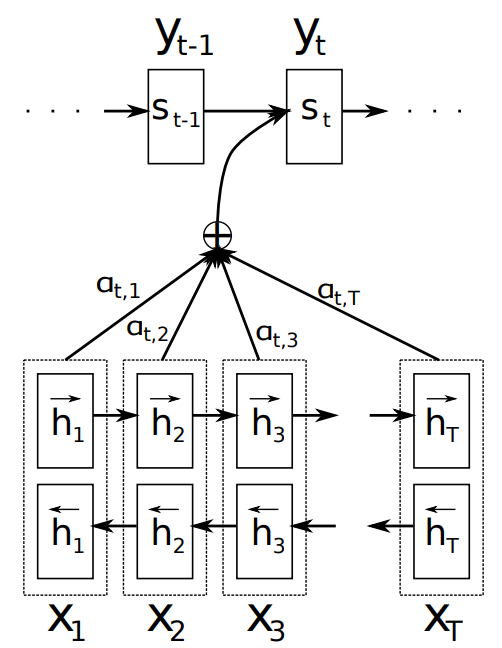
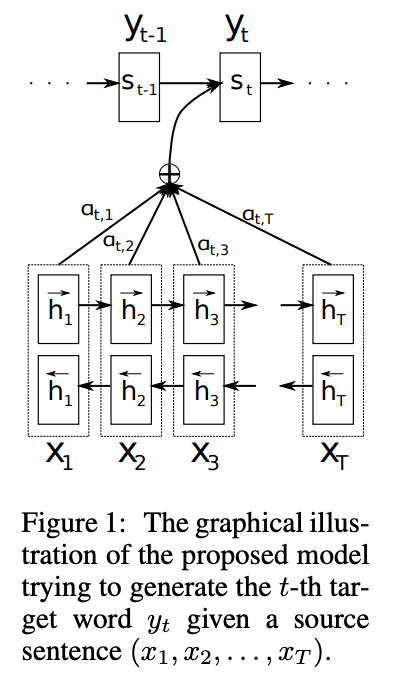
Add transformer_part2 content

Changed region(s): [[0.0294, 0.0, 0.9706, 1.0]]

diff --git a/content/post/2019-12-16_transformer_part2/index.md b/content/post/2019-12-16_transformer_part2/index.md
@@ -1,67 +1,194 @@
 ---
-title: "Attention Is All You Need"
-date: 2019-11-09
-lastmod: 2019-11-09
-draft: true
+title: "Transformer Part 2 - Attention"
+date: 2020-02-28
+lastmod: 2020-02-28
+draft: false
 authors: ["Roymond Liao"]
 categories:
     - NLP
     - Deep Learning
-tags: ["Attention", "Self-attention", "Transformer"]
+tags: ["Attention", "Attention model", "Attention Mechanism"]
 markup: mmark
 image:
   placement: 2
-  caption: ""
-  focal_point: ""
+  caption: "Photo by Martin Adams on Unsplash"
+  focal_point: "Center"
   preview_only: false
 ---
 # Attention Mechanism
 
-**Attention** 的概念在 2014 年被 Bahdanau et al. [3] 所提出，解決了 encoder-decoder 架構的模型在 decoder 必須依賴一個固定向量長度的 context vector 的問題。實際上 attention mechanism 也符合人類在生活上的應用，例如：當你在閱讀一篇文章時，會從上下文的關鍵字詞來推論句子所以表達的意思，又或者像是在聆聽演講時，會捕捉講者的關鍵字，來了解講者所要描述的內容，這都是人類在注意力上的行為表現。
+**Attention** 的概念在 2014 年被 Bahdanau et al. [Paper 1.] 所提出，解決了 encoder-decoder 架構的模型在 decoder 必須依賴一個固定向量長度的 context vector 的問題。實際上 attention mechanism 也符合人類在生活上的應用，例如：當你在閱讀一篇文章時，會從上下文的關鍵字詞來推論句子所以表達的意思，又或者像是在聆聽演講時，會捕捉講者的關鍵字，來了解講者所要描述的內容，這都是人類在注意力上的行為表現。
 
-用比較簡單的講法： attention mechanism 可以幫助模型對輸入 sequence 的每個部分賦予不同的權重， 然後抽出更加關鍵的重要訊息，使模型可以做出更加準確的判斷。
+> 用比較簡單的講法來說， attention mechanism 可以幫助模型對輸入 sequence 的每個部分賦予不同的權重， 然後抽出更加關鍵的重要訊息，使模型可以做出更加準確的判斷。
 
-Attention model 的架構如圖四：
+複習一下在之前介紹的 Seq2Seq model 中，decoder 要預測在給定 context vector 與先前預測字詞 $${y_1, \cdots, y_{t-1}}$$ 的條件下字詞 $y_{t}$ 的機率，所以 decoder  的定義是在有序的條件下所有預測字詞的聯合機率：
+
+$$
+\begin{align}
+p(\mathrm{y}) & = \prod_{t=1}^T p(y_t | \{y_1, \cdots, y_{t-1}\}, c) \tag 1 \\
+\mathrm{y} & = (y_1, \cdots, y_T)
+\end{align}
+$$
+
+在第 $t$ 個字詞，字詞 $y_t$ 的條件機率：
+
+$$
+\begin{align}
+p(y_t | \{y_1, \cdots, y_{t-1}\}, c) = g(y_{t-1}, s_t, c) \tag 2
+\end{align}
+$$
+
+當中 $g$ 唯一個 nonlinear function，$s_t$ 為 hidden state，c 為 context vector。
+
+而在 Attention model 中，作者將 decoder 預測下一個字詞的的條件機率重新定義為：
+
+$$
+\begin{align}
+p(y_i | \{y_1, \cdots, y_{i-1}\}, \mathrm{x}) = g(y_{i-1}, s_t, c_i) \tag 3
+\end{align}
+$$
+
+當中 $s_i$ 表示 RNN 在 $i$ 時間的 hiddent state。
+
+$$
+\begin{align}
+s_i = f\left(s_{i-1}, y_{i-1}, c_i\right) \tag 4
+\end{align}
+$$
+
+將式子 (3) 與 (2) 相比就可以發現，每一個預測字詞 $y_i$ 對於 context vector 的取得，由原本都是固定的 C  轉變成 每個字詞預測都會取得不同的 $C_i$。
+
+Bahdanau Attention model 的架構如圖一：
 
 <figure class="image">
 <center>
   <img src="./attention_bahdanau.png" style="zoom:60%" />
   <figcaption>
-  圖四(Image credit:[3])
+  圖一(Image credit:[Paper 1.])
   </figcaption>
 </center>
 </figure>
 
-Decoder's conditional probabilit: $P\left(y_i|y_1, y_2,\dots,y_{i-1}, x\right) = g\left(y_{i-1}, s_i, c_i\right)$
 
-$s_i$ is hidden state: $s_i = f(s_{i-1}, y_{i-1}, c_i)$
 
-Here the probability is conditioned on a distinct context vector $c_i$ for each target word $y_i$
+Context vector $c_i$ 是取決於 sequence of annotations $$(h_1, h_2, \cdots, h_{T_x})$$ 的訊息，annotation $h_i$ 包含了在第 $i$ 步下， input sequence 輸入到 econder 的訊息。計算方法是透過序列權重加總 annotation $h_i$，公式如下：
 
-The context vector $c_i$ is depends on a sequence of annotation $(h_1, h_2,\dots,h_{T_x})$  to which an encoder maps the input sentence.
+$$
+\begin{equation}
+c_i = \displaystyle\sum_{j=1}^{T_x}\alpha_{ij}h_j \tag5
+\end{equation}
+$$
 
-$c_i$ 是針對 $h_j$ 進行 weight sum 計算 :$c_i = \displaystyle\sum_{j=1}^{T_x}\alpha_{ij}h_j$
+其中 $i$ 表示 decoder 在第 $i$ 個字詞，$j$ 表示 encoder 中第 $j$ 個詞。
 
-$\alpha_{ij}$ 則是對應 $h_j$ 的權重： $\alpha_{ij} = \frac{exp(e_{ij})}{\sum_{k=1}{T_x}exp(e_{ik})}$
+$\alpha_{ij} $ 則稱之為 attention distribution，可以用來衡量 input sequence 中的每個文字對 output sequence 中的每個文字所帶來重要性的程度，計算方式如下
+：
+$$
+\begin{align}
+\alpha_{ij} & = softmax(e_{ij}) \\
+& = \frac{exp(e_{ij})}{\sum_{k=1}^{T_x}exp(e_{ik})} \tag6 \\
+\end{align}
+$$
 
-$e_{ij}$ 是 alignment model which scores how well the inputs around position j and the output at position i match. The score is based on the RNN hidden state $s_{i−1}$  and the $j-th$ annotation $h_j$ of the input sentence.：$e_{ij} = a(s_{i-1}, h_j)$
+$$
+e_{ij} = a(s_{i-1}, h_j) \tag7
+$$
+
+**計算 attention  score $e_{ij}$ 中 $a$ 表示為 alignment model (對齊模型)，是衡量 input sequence 在位置 $j$ 與 output sequence 位置 $i$ 這兩者之間的關係**。
+這邊作者為了解決在計算上需要 $T_{x} \times T_{y}$ 的計算量，所以採用了 singlelayer multilayer perceptron 的方式來減少計算量，其計算公式：
+
+$$
+\begin{align}
+a(s_{i-1}, h_j) = v_a^Ttanh(W_aS_{i-1} + U_ah_j) \tag8
+\end{align}
+$$
+
+其中 $W_a \in R^{n\times n}，U_a \in R^{n \times 2n}，v_a \in R^n$ 都是 weight。
+
+另外作者在此採用了 BiRNN(Bi-directional RNN) 的 forward 與 backward 的架構，由圖一可以得知
+
+* Forward hidden state 為 $$(\overrightarrow{h_1}, \cdots, \overrightarrow{h_{T_x}})$$
+* Backward hidden state 為 $$(\overleftarrow{h_1}, \cdots, \overleftarrow{h_{T_x}})$$
+* Concatenate forward 與 backward 的 hidden state，所以 annotation $h_j$ 為 $$\left[\overrightarrow{h_j^T};\overleftarrow{h_j^T}\right]^T$$
+
+這樣的方式更能理解句子所要表達的意思，並得到更好的預測結果。
+
+> 例如以下兩個句子的比較：
+1. 我喜歡蘋果，因為它很好吃。
+2. 我喜歡蘋果，因為它很潮。
+
+下圖為 Bahdanau Attention model 的解析可以與圖一對照理解，這樣更能了解圖一的結構：
+
+> 需要注意的一點是在最一開始的 decoder hidden state $S_0$ 是採用 encoder 最後一層的 output 
+
+<figure class="image">
+<center>
+  <img src="./attention_bahdanau_example.png" style="zoom:100%" />
+  <figcaption>
+  圖二
+  </figcaption>
+</center>
+</figure>
+
+下圖為論文中英文翻譯成法語的 attention distribution：
+
+<figure class="image">
+<center>
+  <img src="./attention_bahdanau_output.png" style="zoom:90%" />
+  <figcaption>
+  圖三(Image credit:[Paper 1.])
+  </figcaption>
+</center>
+</figure>
+
+在上圖中 $[European \space Economic \space Area]$ 翻譯成$ [zone \space \acute{a}conomique \space europ\acute{e}enne] $ 的注意力分數上，模型成功地專注在對應的字詞上。
+
+# Attention Mechanism Family
+
+Attention score function:
+
+| Name               | Attention score function             |
+| ------------------ | ------------------------------------ |
+| Dot-product        | $e_{ij} = S_i^Th_j$                  |
+| General            | $e_{ij} = S_i^TWh_j$                 |
+| Additive           | $e_{ij} = v^Ttanh(WS_{i-1} + Uh_j) $ |
+| Scaled Dot-product | $e_{ij} = \frac{S_i^Th_j}{\sqrt{d}}$ |
+|                    |                                      |
+
+### Soft Attention & Hard Attention
+
+### Global Attention & Local Attention
+
+
+
+
+
+
+
+
+
 
 attenion value and query 的理解不要被公式混淆，而是從 attention 的概念去了解，query 就是
 
 ## Refenece
 
+Paper:
+
+1. [Dzmitry Bahdanau, KyungHyun Cho Yoshua Bengio, NEURAL MACHINE TRANSLATION BY JOINTLY LEARNING TO ALIGN AND TRANSLATE(2015)](https://arxiv.org/pdf/1409.0473.pdf)
+2. [Kelvin Xu, Jimmy Ba, Ryan Kiros, Kyunghyun Cho, Aaron Courville, Ruslan Salakhudinov, Rich Zemel, and Yoshua Bengio, Show, Attend and Tell: Neural Image Caption Generation with Visual Attention(2015)](https://arxiv.org/pdf/1502.03044.pdf)
+3. [Thang Luong, Hieu Pham, Christopher D. Manning, Effective Approaches to Attention-based Neural Machine Translation(2015)](https://arxiv.org/pdf/1508.04025.pdf)
+4. [Sneha Chaudhari, Gungor Polatkan , Rohan Ramanath , Varun Mithal, An Attentive Survey of Attention Models(2019)](https://arxiv.org/abs/1904.02874)
+
 Illustrate:
 
-1. [The IIIustrated Transformer](https://jalammar.github.io/illustrated-transformer/)
-2. [w淺談神經機器翻譯 & 用 Transformer 與 Tensorflow2](https://leemeng.tw/neural-machine-translation-with-transformer-and-tensorflow2.html#top)
-3. [Attention is all you need 解讀](https://zhuanlan.zhihu.com/p/34781297)
-4. [Transformer model for language understanding by google](https://www.tensorflow.org/tutorials/text/transformer)
-5. [How Self-Attention with Relative Position Representations works](https://medium.com/@_init_/how-self-attention-with-relative-position-representations-works-28173b8c245a)
+1. https://zhuanlan.zhihu.com/p/37601161h
+2. https://blog.floydhub.com/attention-mechanism/#bahdanau-atth
+3. https://web.stanford.edu/class/cs224n/slides/cs224n-2019-lecture08-nmt.pdf
 
 Tutorial:
 
 1. [Neural Machine Translation (seq2seq) Tutorial](https://github.com/tensorflow/nmt#background-on-the-attention-mechanism)
-2. https://www.tensorflow.org/tutorials/text/transformer
+2. https://www.tensorflow.org/tutorials/text/transformerG
 3. [Guide annotating the paper with PyTorch implementation](http://nlp.seas.harvard.edu/2018/04/03/attention.html)
 
 Visualization:

diff --git a/content/post/2019-12-16_transformer_part1/index.md b/content/post/2019-12-16_transformer_part1/index.md
@@ -1,5 +1,5 @@
 ---
-title: "Transformer Part 1"
+title: "Transformer Part 1 - Seq2Seq"
 date: 2019-12-16
 lastmod: 2020-01-02
 draft: false
@@ -123,7 +123,7 @@ image:
     \begin{align}
     \hat{y_t} = argmax\space p_{\theta}(y | \hat{y}_{1:(t-1)}) 
     \end{align}
-	  $$
+	$$
 	
 	  其中 $$\hat{y}_{1:(t-1)} = \hat{y}_1,\dots,\hat{y}_{t-1}$$ 為前面 $t-1$ 步所生成的字詞。以一個簡單的概念來思考，每一步的 output 都是該步所得到的最大條件機率，那這樣的 greedy search 所得到的結果對於我們的目標並非是最優的，得到的是每個字詞的最大條件機率，而並非是整個句子的最大條件機率，所以這樣的狀況下你所得的的翻譯可能不會是最適合的。
 	
@@ -137,7 +137,7 @@ image:
 	4. 在成長搜尋樹後，進行剪枝的工作，只留下 B 個最高條件機率的葉節點後，再進行下一個位置的序列生成。
 	
 	Beam search 的實作可以參考 Blog:[4]。
-  
+
 <figure class="image">
 <center>
   <img src="./beam_search.png" style="zoom:80%" />

diff --git a/content/post/2019-12-16_transformer_part3/index.md b/content/post/2019-12-16_transformer_part3/index.md
@@ -1,0 +1,24 @@
+title: "Transformer Part 3"
+date: 2019-12-16
+lastmod: 2020-02-28
+draft: true
+authors: ["Roymond Liao"]
+categories:
+    - NLP
+    - Deep Learning
+tags: ["Self-attention", "Transformer"]
+markup: mmark
+image:
+  placement: 2
+  caption: "Photo by Christian Wagner on Unsplash"
+  focal_point: "Center"
+  preview_only: false
+
+
+  # Reference
+
+1. [The IIIustrated Transformer](https://jalammar.github.io/illustrated-transformer/)
+2. [w淺談神經機器翻譯 & 用 Transformer 與 Tensorflow2](https://leemeng.tw/neural-machine-translation-with-transformer-and-tensorflow2.html#top)
+3. [Attention is all you need 解讀](https://zhuanlan.zhihu.com/p/34781297)
+4. [Transformer model for language understanding by google](https://www.tensorflow.org/tutorials/text/transformer)
+5. [How Self-Attention with Relative Position Representations works](https://medium.com/@_init_/how-self-attention-with-relative-position-representations-works-28173b8c245a)

diff --git a/content/home/posts.md b/content/home/posts.md
@@ -5,7 +5,7 @@
 widget = "pages"  # See https://sourcethemes.com/academic/docs/page-builder/
 headless = true  # This file represents a page section.
 active = true  # Activate this widget? true/false
-weight = 60  # Order that this section will appear.
+weight = 30  # Order that this section will appear.
 
 title = "Recent Posts"
 subtitle = "keep writing and keep learning"
